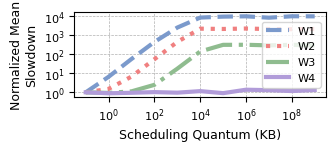
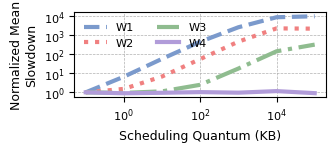
Results with reasonable quantum sizes

diff --git a/scripts/plot_sched_hn.py b/scripts/plot_sched_hn.py
@@ -144,7 +144,7 @@ def plot_column(dataframes,
     plt.xlabel('Scheduling Quantum (KB)')
     plt.ylabel("Normalized Mean\nSlowdown")
     plt.grid(True, which='both', linestyle='--', linewidth=0.5)
-    plt.legend(loc='center right',)
+    plt.legend(loc='upper left', frameon=False, ncols=2)
 
     # Save
     base = Path(out_dir) / f"quantum_{column.replace(' ', '_')}_norm"
